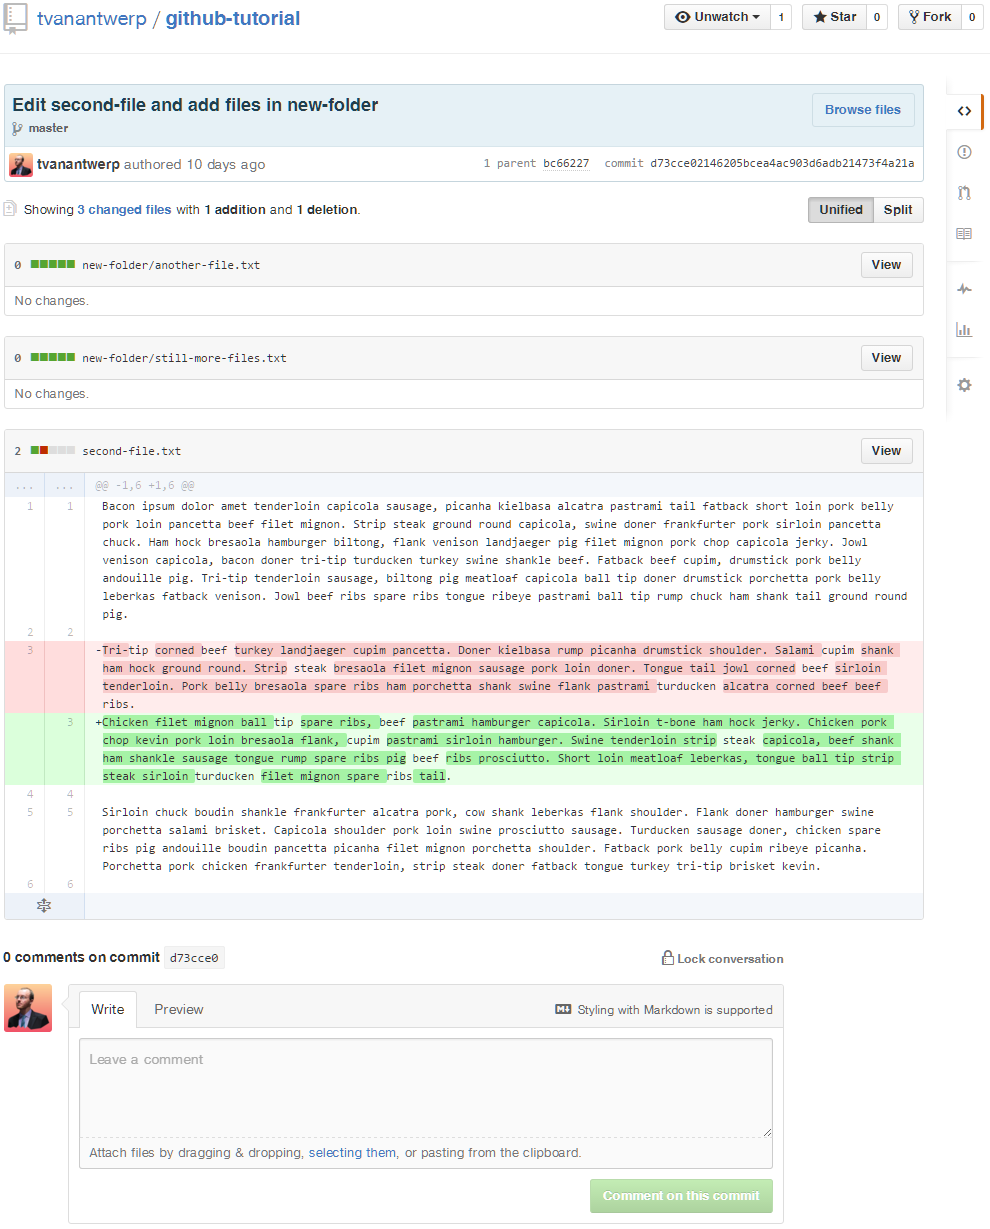
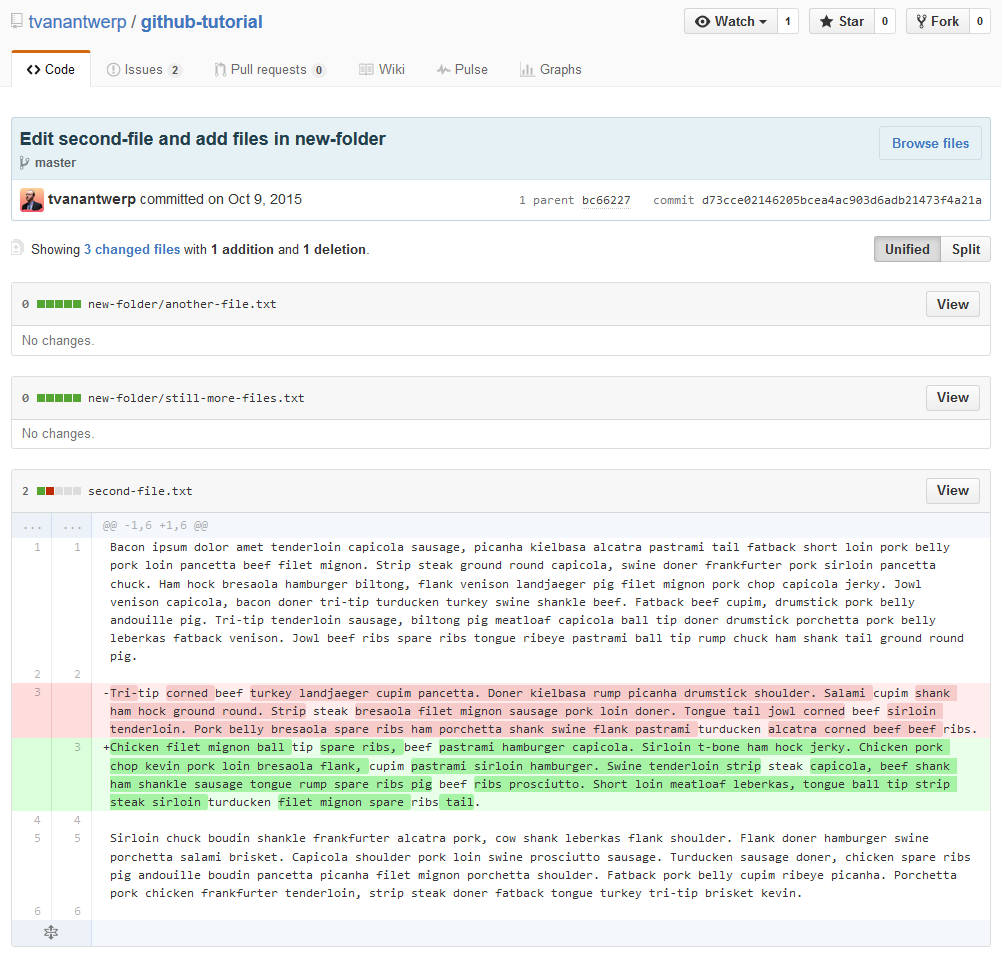
fix issue #8
Updated 9 screenshots and changed any references from the old "sidebar"
with the new "topbar"

diff --git a/04-github-ui/04-02-sidebar.md b/04-github-ui/04-02-sidebar.md
@@ -1,8 +1,8 @@
-# The Sidebar
+# The Topbar
 
-![GitHub's Right Sidebar](/images/github-right-sidebar.png)
+![GitHub's Topbar](/images/github-right-sidebar.png)
 
-The sidebar on the right side of your repo's page let's you quickly navigate to features related to your project. By default, you're on the **Code** page where you can see your files and information from the most recent commit to affect each of them.
+The Topbar on the top of your repo's page let's you quickly navigate to features related to your project. By default, you're on the **Code** page where you can see your files and information from the most recent commit to affect each of them.
 
 The second option takes you to the **Issues** section. GitHub issues are a very useful feature for keeping track of errors to fix, new features to create, etc. Think of it like your project's to-do list. You and your collaborators can create issues, discuss them in comments, and close them when they've been resolved. You can also add tags to issues, so you can choose to only view errors or only planned features. Issues also lets you define project milestones that you can also use like tags, letting you track tasks to complete toward broader goals. We'll explore how issues work in-depth later in this guide.
 
